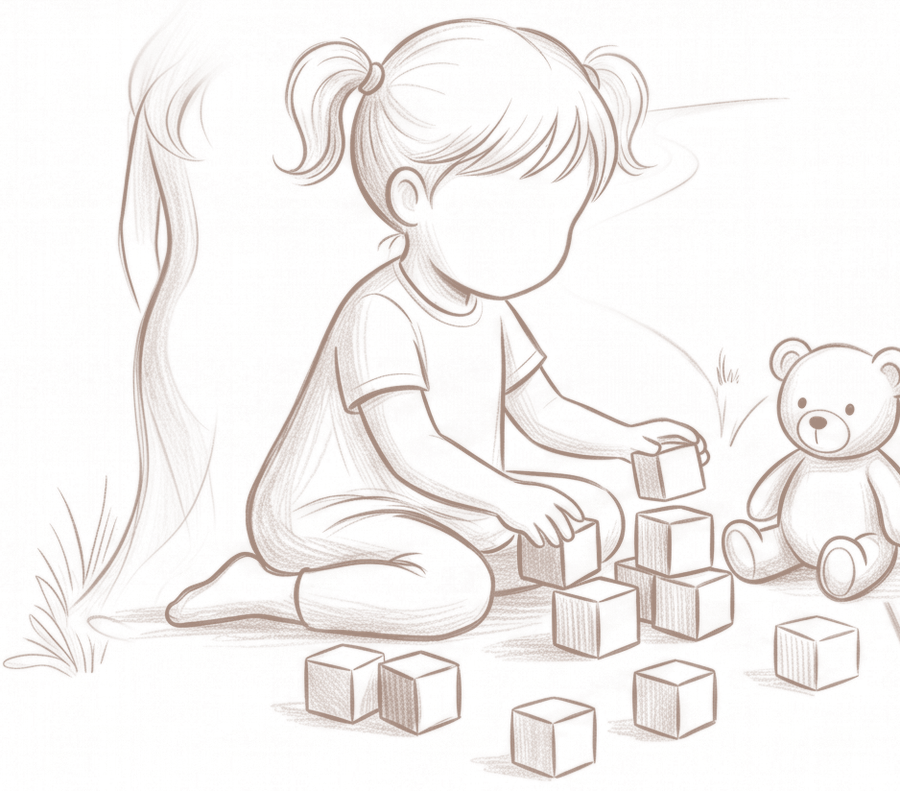
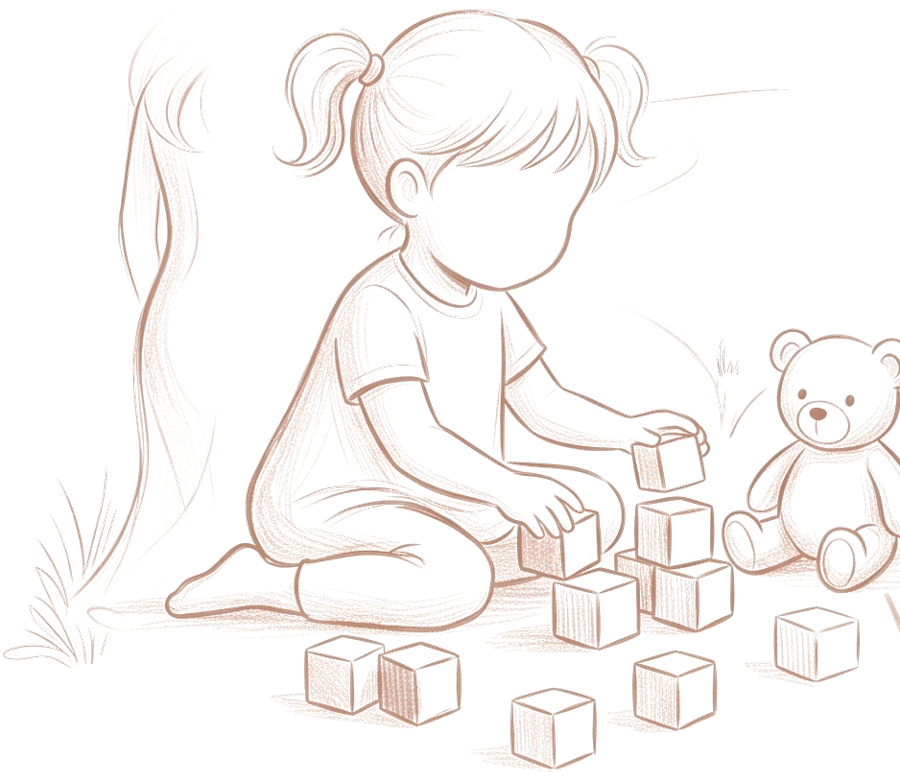
Leave the drawings the colour they arrived in
Each pixel keeps its own value now. The only thing removed is the
paper: anything more than a few levels off white is fully opaque and
carries the exact colour the sheet had.

Deriving one ink colour and re-solving the shading against it kept
coming back greyer than the original, because the darkest pixels on
these sheets are where strokes overlap and those are the least
saturated on the page.

diff --git a/components/sections/Faq.tsx b/components/sections/Faq.tsx
@@ -40,7 +40,7 @@ export function Faq({
             src="/images/art-kid-blocks.png"
             alt=""
             width={900}
-            height={791}
+            height={782}
             sizes="140px"
             aria-hidden="true"
             className="pointer-events-none absolute top-0 right-[calc(100%+2.5rem)] hidden h-24 w-auto xl:block"
@@ -48,7 +48,7 @@ export function Faq({
           <Image
             src="/images/art-kid-ball.png"
             alt=""
-            width={710}
+            width={689}
             height={900}
             sizes="140px"
             aria-hidden="true"
@@ -88,7 +88,7 @@ export function Faq({
               src="/images/art-kid-blocks.png"
               alt=""
               width={900}
-              height={791}
+              height={782}
               sizes="120px"
               className="h-14 w-auto"
             />
@@ -96,7 +96,7 @@ export function Faq({
               <Image
                 src="/images/art-kid-ball.png"
                 alt=""
-                width={710}
+                width={689}
                 height={900}
                 sizes="100px"
                 className="h-16 w-auto"

diff --git a/components/sections/Recognise.tsx b/components/sections/Recognise.tsx
@@ -13,10 +13,10 @@ import type { RecogniseItem, RecogniseSection } from "@/content/types";
  * schema caps the list at the four these were drawn for.
  */
 const MARKS = [
-  { src: "/images/day-morning.png", width: 643, height: 523 },
-  { src: "/images/day-translate.png", width: 534, height: 397 },
-  { src: "/images/day-help.png", width: 513, height: 511 },
-  { src: "/images/day-collapse.png", width: 459, height: 464 },
+  { src: "/images/day-morning.png", width: 641, height: 522 },
+  { src: "/images/day-translate.png", width: 533, height: 397 },
+  { src: "/images/day-help.png", width: 507, height: 492 },
+  { src: "/images/day-collapse.png", width: 441, height: 464 },
 ];
 
 function Moment({
@@ -145,7 +145,7 @@ export function Recognise({ data }: { data: RecogniseSection }) {
           <Image
             src="/images/art-mother-walk.png"
             alt=""
-            width={768}
+            width={752}
             height={900}
             sizes="180px"
             aria-hidden="true"

diff --git a/components/sections/Services.tsx b/components/sections/Services.tsx
@@ -92,8 +92,8 @@ function ServiceCard({ service }: { service: Service }) {
         <Image
           src="/images/art-path-home.png"
           alt=""
-          width={762}
-          height={835}
+          width={761}
+          height={833}
           sizes="260px"
           aria-hidden="true"
           className="pointer-events-none order-last mt-4 h-28 w-auto self-end opacity-80 transition-[opacity,transform] duration-500 ease-[var(--ease-soft)] group-has-[details[open]]:translate-y-6 group-has-[details[open]]:opacity-0 lg:absolute lg:-bottom-14 lg:-end-4 lg:order-none lg:mt-0 lg:h-44"

diff --git a/components/sections/Articles.tsx b/components/sections/Articles.tsx
@@ -53,8 +53,8 @@ export function Articles({
               <Image
                 src="/images/art-child-sprawl.png"
                 alt=""
-                width={787}
-                height={542}
+                width={786}
+                height={540}
                 sizes="140px"
                 aria-hidden="true"
                 className="hidden h-28 w-auto shrink-0 sm:block"

diff --git a/components/layout/Footer.tsx b/components/layout/Footer.tsx
@@ -33,7 +33,7 @@ export function Footer({ settings }: { settings: SiteSettings }) {
             <Image
               src="/images/art-kid-ball-light.png"
               alt=""
-              width={710}
+              width={689}
               height={900}
               sizes="160px"
               className="mx-auto mt-8 h-24 w-auto opacity-75 md:h-28 lg:mx-0"

diff --git a/components/sections/Approach.tsx b/components/sections/Approach.tsx
@@ -117,8 +117,8 @@ export function Approach({
             <Image
               src="/images/art-hands-home.png"
               alt=""
-              width={900}
-              height={785}
+              width={874}
+              height={900}
               sizes="300px"
               aria-hidden="true"
               className="h-28 w-auto select-none md:h-40"

diff --git a/components/sections/NotHere.tsx b/components/sections/NotHere.tsx
@@ -123,7 +123,7 @@ export function NotHere({
               src={`/images/art-kid-blocks${t.onDark ? "-light" : ""}.png`}
               alt=""
               width={900}
-              height={791}
+              height={782}
               sizes="180px"
               aria-hidden="true"
               className="h-20 w-auto opacity-75 md:h-24"

diff --git a/components/sections/Testimonials.tsx b/components/sections/Testimonials.tsx
@@ -88,7 +88,7 @@ export function Testimonials({
         src="/images/art-family-hold.png"
         alt=""
         width={900}
-        height={739}
+        height={760}
         sizes="260px"
         aria-hidden="true"
         className={`w-auto ${size}`}

diff --git a/scripts/prep-drawings.py b/scripts/prep-drawings.py
@@ -56,34 +56,36 @@ def cut(name, sheet_file, span, light):
     sheet = Image.open(f"{SRC}/{sheet_file}").convert("RGB")
     rgb = np.asarray(sheet).astype(np.float32)
 
-    # The ink: the mean of the two thousand darkest pixels. A percentage of the
-    # sheet is the wrong measure - these sheets are almost entirely paper, so
-    # even half a percent of them reaches well up into the mid-tones and
-    # returns an ink far lighter than any stroke actually is.
+    # Each pixel keeps its own colour. Only the paper is removed: anything
+    # more than a few levels off white becomes fully opaque and carries the
+    # exact value the sheet had, so the drawing on cream is the drawing that
+    # was handed over. Deriving a single ink colour and re-solving the shading
+    # against it - which is what this did before - kept coming back greyer and
+    # paler than the original, because the darkest pixels on these sheets are
+    # where strokes overlap and those are the least saturated ones on the page.
     lightness = rgb.max(axis=2)
-    ink = rgb.reshape(-1, 3)[np.argsort(lightness, axis=None)[:2000]].mean(axis=0)
-
-    # How much of that ink each pixel holds. Taken per channel and kept at the
-    # strongest, so a stroke reads at its full weight rather than at the
-    # average of three channels that disagree.
-    coverage = np.clip((255.0 - rgb) / np.maximum(255.0 - ink, 1.0), 0, 1).max(axis=2)
+    coverage = np.clip((255.0 - lightness) / 22.0, 0, 1)
+    # A separate, stricter test for where the drawing actually is. The soft
+    # ramp above reaches almost every pixel on a scanned sheet, so using it to
+    # find the bounds returns the whole page.
+    inked = lightness < 238
 
     x0, x1 = span or (0, None)
     band = coverage[:, x0:x1]
-    ys = np.where((band > 0.06).any(axis=1))[0]
-    xs = np.where((band > 0.06).any(axis=0))[0]
+    mask = inked[:, x0:x1]
+    ys = np.where(mask.any(axis=1))[0]
+    xs = np.where(mask.any(axis=0))[0]
     pad = 10
     top, bottom = max(0, ys.min() - pad), ys.max() + 1 + pad
     left, right = max(0, xs.min() - pad), xs.max() + 1 + pad
     alpha = band[top:bottom, left:right]
 
-    out = np.empty((*alpha.shape, 4), dtype=np.uint8)
-    out[..., 0], out[..., 1], out[..., 2] = ink.round().astype(np.uint8)
-    out[..., 3] = (alpha * 255).round().astype(np.uint8)
+    colour = rgb[:, x0:x1][top:bottom, left:right].round().astype(np.uint8)
+    out = np.dstack([colour, (alpha * 255).round().astype(np.uint8)])
     image = Image.fromarray(out, "RGBA")
     image.thumbnail((900, 900), Image.LANCZOS)
     image.save(f"{SRC}/{name}.png")
-    print(f"  {name}.png {image.size}  ink #{'%02x%02x%02x' % tuple(ink.round().astype(int))}")
+    print(f"  {name}.png {image.size}")
 
     if light:
         pale = out.copy()
